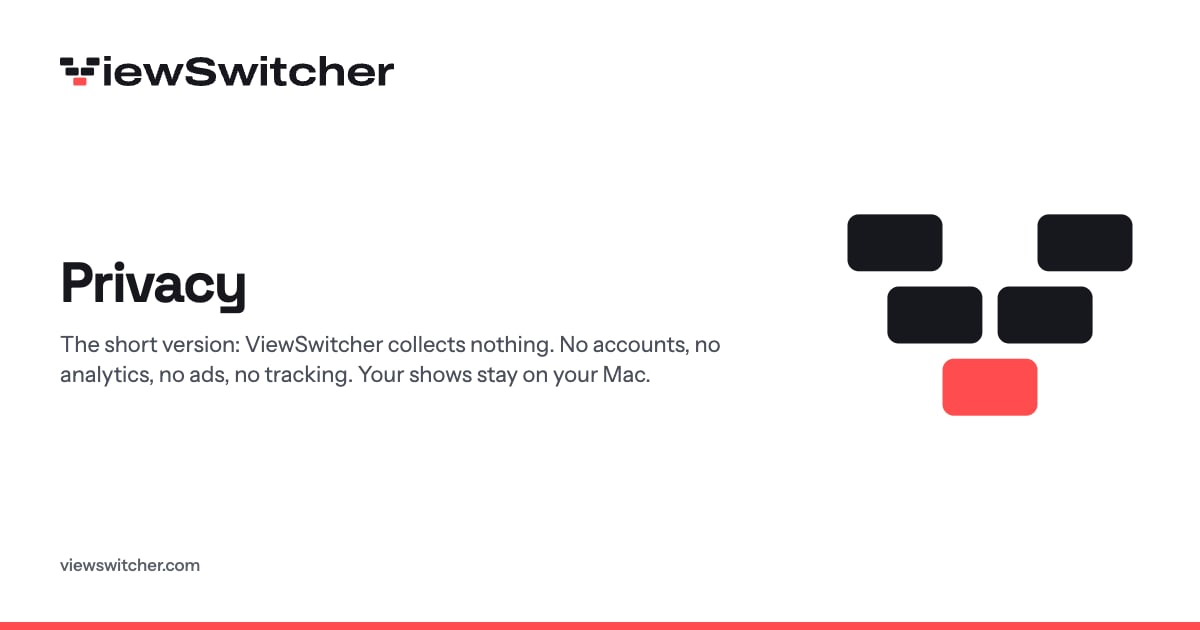
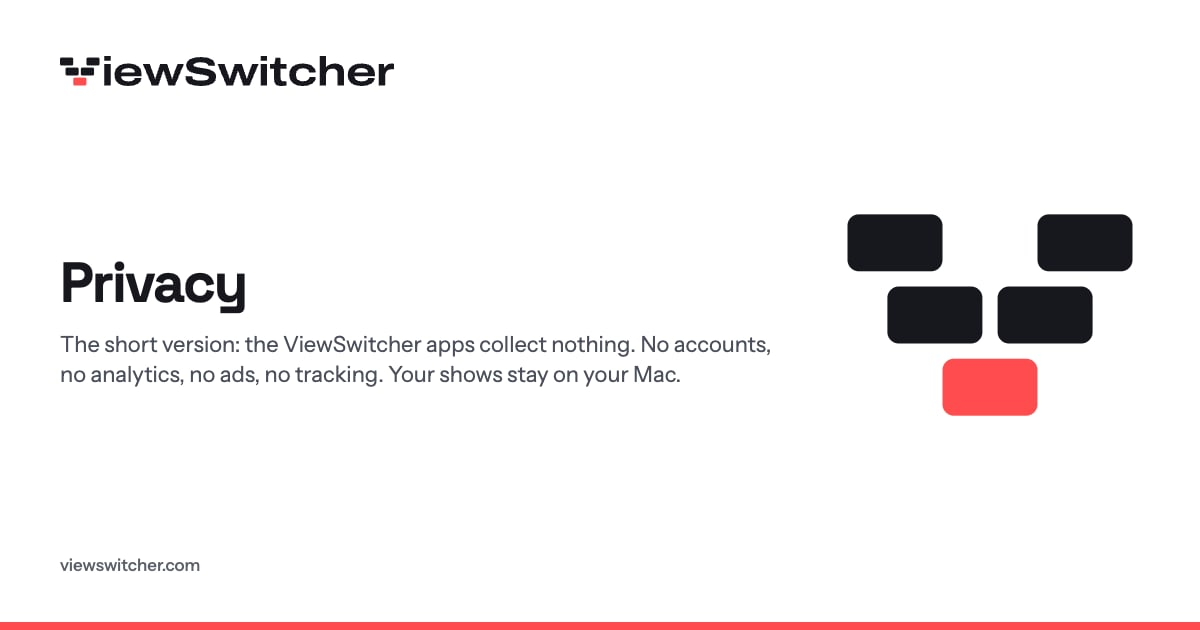
feat(site): iPhone and iPad everywhere the site said iPad (SITE)
Homepage step 4, the Free on the Mac line, the phone FAQ (follows IPAD_APP_URL: until the app is out, a phone's browser pairs), footer, guides, /download, /support (in-app pairing, Local Network and Camera settings), /privacy (camera only to read the pairing code; local network to find the Mac), /church-livestream and the /ai beta signup.

Changed region(s): [[0.0308, 0.5127, 0.6475, 0.6333]]

diff --git a/apps/site/src/data/faq.ts b/apps/site/src/data/faq.ts
@@ -1,6 +1,7 @@
 // The homepage's questions (Jono's design: five, collapsed). The page shows them and its FAQPage
 // structured data repeats them word for word. "Do I need AI?" follows AI_CONNECT_RELEASED.
 import { site } from "../site.config";
+import { IPAD_PRICE } from "../lib/cta";
 
 export type Faq = { q: string; a: string; more?: { href: string; label: string } };
 
@@ -10,6 +11,9 @@ export const FAQS: Faq[] = [
     ? "No. The templates work on their own, and you edit them right on the view. Connecting your favorite AI (Claude, Cursor or any app with MCP) is optional and free: it makes custom overlays and slides when you ask."
     : "No. Start from a free template and edit it right on the view. If you want a view that isn't there, an AI assistant can make one for you, but that's optional." },
   { q: "Does it work with my camera?", a: "If OBS can see it, ViewSwitcher can place it: the Mac's built-in camera, a USB webcam, or a camera through a capture card. Your screen share works the same way." },
-  { q: "Can I switch from my phone?", a: "Yes. In ViewSwitcher's menu bar, turn on Let Phones and Tablets on This Wi-Fi Connect, then scan the QR code with your phone's camera. Only phones and tablets you pair can switch scenes. Use it on Wi-Fi you trust, like home or church Wi-Fi." },
+  { q: "Can I switch from my phone?", a: site.ipadApp.state === "store"
+    ? `Yes, with ViewSwitcher for iPhone and iPad (${IPAD_PRICE} once, one purchase for both). Held sideways, your views fill the phone like a deck. On the Mac, in ViewSwitcher's menu bar, turn on Let Phones and Tablets on This Wi-Fi Connect, then tap Scan the code in the app. Only phones and tablets you pair can switch scenes. Use it on Wi-Fi you trust, like home or church Wi-Fi.`
+    : `Yes. ViewSwitcher for iPhone and iPad is coming to the App Store (${IPAD_PRICE} once, one purchase for both). Held sideways, your views fill the phone like a deck, and you pair it by scanning the code the Mac shows. Until then, any phone can switch from its browser: in ViewSwitcher's menu bar, turn on Let Phones and Tablets on This Wi-Fi Connect and scan the QR code with the phone's camera. Only phones and tablets you pair can switch scenes. Use it on Wi-Fi you trust, like home or church Wi-Fi.`,
+    more: { href: "/ipad", label: "ViewSwitcher for iPhone and iPad" } },
   { q: "Windows?", a: "Not yet. ViewSwitcher is Mac only for now. If you'd use it on Windows, tell us on GitHub." },
 ];

diff --git a/apps/site/src/site.config.ts b/apps/site/src/site.config.ts
@@ -6,7 +6,7 @@ import { softwareApp } from "./lib/seo";
 // A build can override it with SITE_MAC_APP=1 or 0 (e.g. on a Vercel preview) to show the other state.
 const MAC_APP_RELEASED = true;
 
-// THE iPAD SWITCH: paste the App Store link (https://apps.apple.com/...) once the iPad app is live.
+// THE iPHONE AND iPAD SWITCH: paste the App Store link (https://apps.apple.com/...) once the app is live.
 // Before: "Coming to the App Store". After: the "Download on the App Store" badge links there.
 // A build can override it with SITE_IPAD_APP_URL.
 const IPAD_APP_URL: string | null = null;

diff --git a/apps/site/src/lib/cta.ts b/apps/site/src/lib/cta.ts
@@ -26,7 +26,7 @@ export function flag(name: string, configured: boolean, override: string | undef
   throw new Error(`${name} must be 1, 0, true or false, not "${override}"`);
 }
 
-/** The iPad app: optional, a one-time price on the App Store. Before its listing is live it's "coming". */
+/** The iPhone and iPad app (one universal app): optional, a one-time price on the App Store. Before its listing is live it's "coming". */
 export const IPAD_PRICE = "$9.99";
 export type IpadApp = { state: "soon" } | { state: "store"; href: string };
 

diff --git a/apps/site/README.md b/apps/site/README.md
@@ -37,7 +37,7 @@ The site stacks them the way OBS does: the show's ground color, then the photo o
 
 The homepage, `/download`, `/setup` (OBS setup guide), `/ipad`, `/church-livestream`, `/support` and `/privacy`. "The free, one-click OBS scene switcher for Mac" is the descriptor (`descriptor` in `src/site.config.ts`): the homepage title and hero line, and the footer. The Mac app's version and minimum macOS are `site.mac` in `site.config.ts`: update them with each release. Structured data (schema.org JSON-LD) comes from `src/lib/seo.ts` through `Base.astro`'s `schema` prop, and states only what the page shows: SoftwareApplication (free, macOS 14+) on the homepage and `/download`, FAQPage where there are questions on the page (`src/data/faq.ts` for the homepage), HowTo on `/setup`.
 
-App screenshots are real: `bun scripts/app-shots.ts` runs the switcher on port 7434 (OBS offline, USB off) against the scratch library, makes Grace Community a Sunday stream, and saves the switcher, the editor and the Connect OBS card to `src/assets/app/`. The iPad ones are the iPad app's App Store screenshots.
+App screenshots are real: `bun scripts/app-shots.ts` runs the switcher on port 7434 (OBS offline, USB off) against the scratch library, makes Grace Community a Sunday stream, and saves the switcher, the editor and the Connect OBS card to `src/assets/app/`. The iPad ones are the iPhone and iPad app's App Store screenshots (`apps/apple/scripts/ipad-shots.sh`).
 
 ## Templates and template packs (SITE-26 · SITE-29)
 
